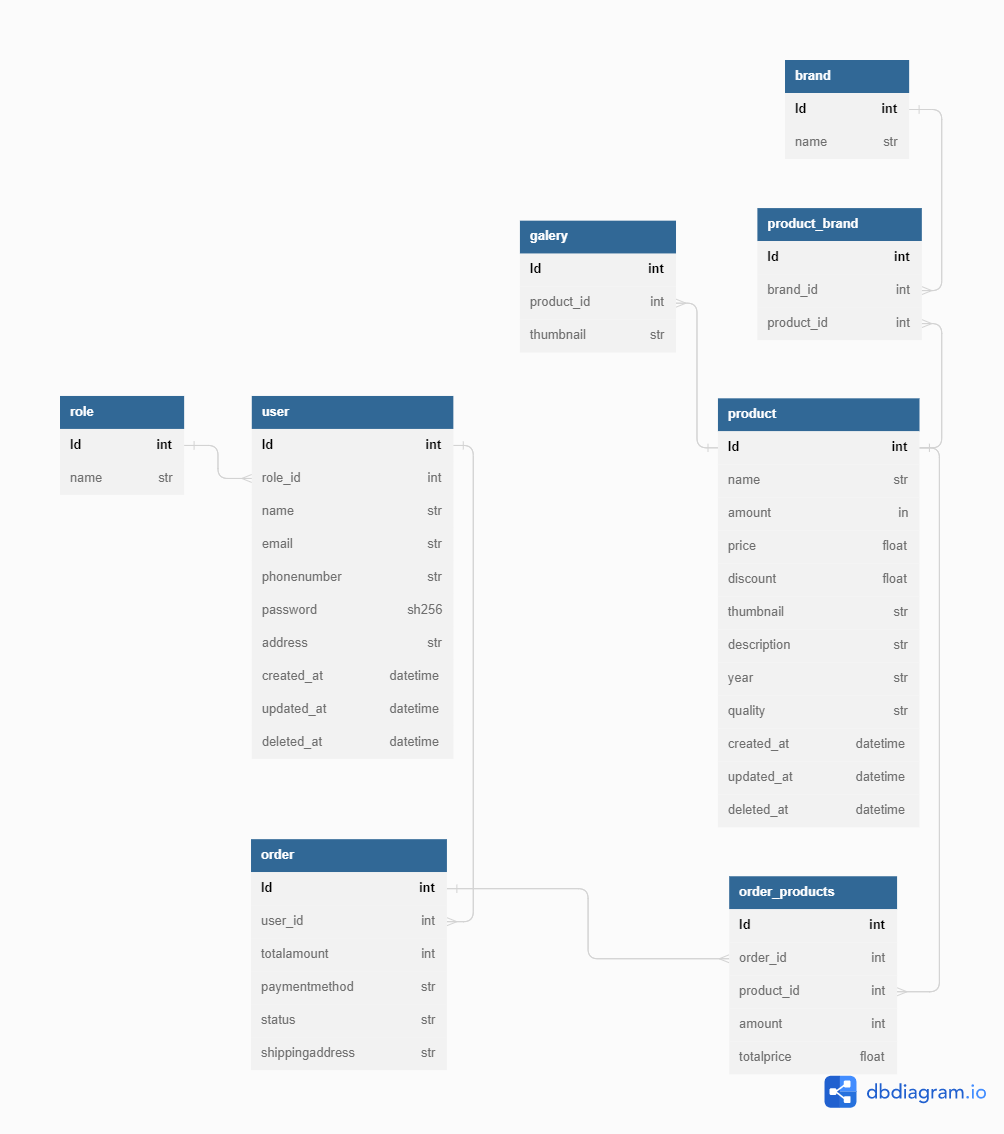
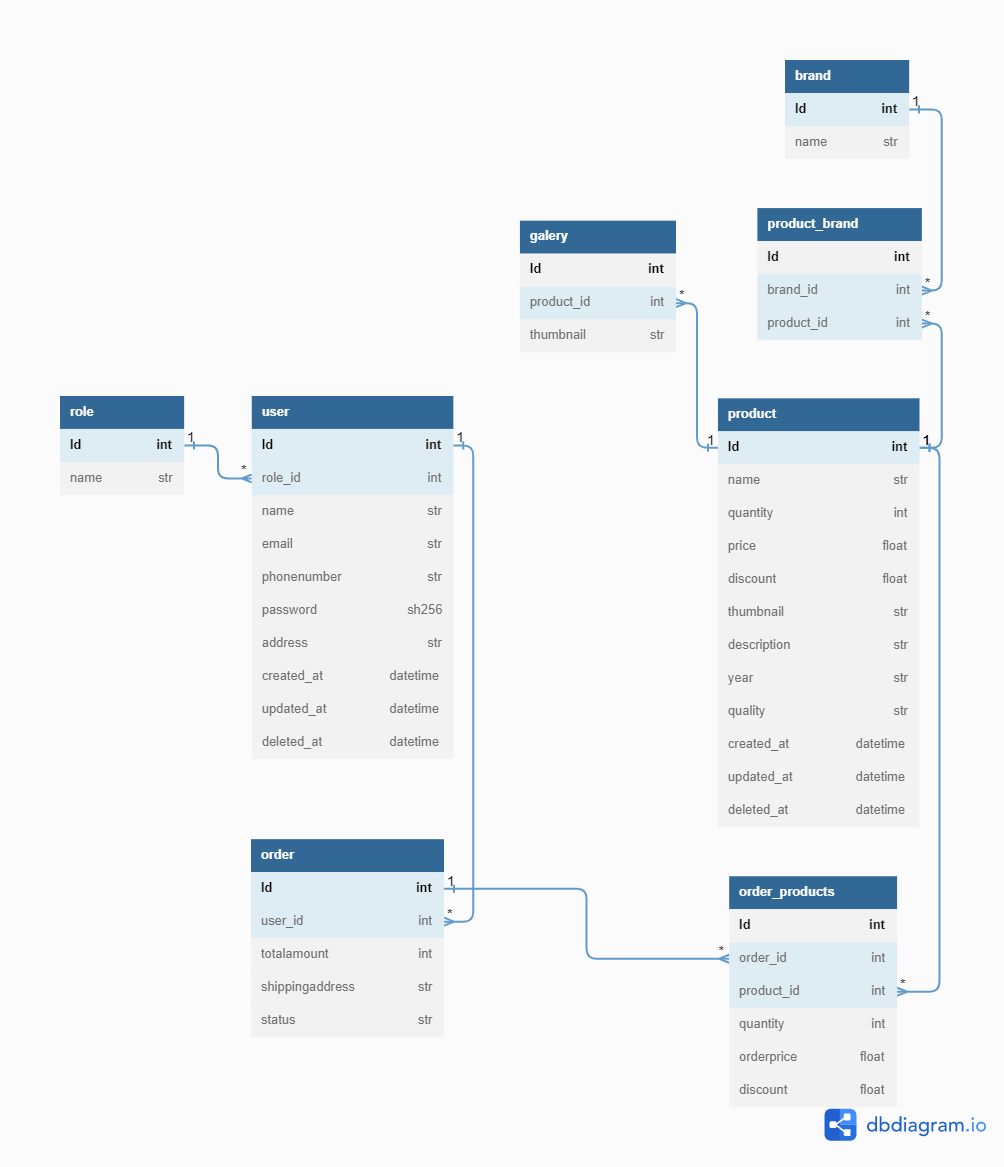
Update model : Update Table

diff --git a/app/models/user.go b/app/models/user.go
@@ -20,7 +20,7 @@ type User struct {
 	Id          uint   `json:"ID"           form:"ID"           gorm:"primary_key" `
 	Name        string `json:"name"         form:"name"         gorm:"unique;not null" validate:"required,min=4,max=32"`
 	Email       string `json:"email"        form:"email"        gorm:"unique"          validate:"required,email,min=4,max=32"`
-	PhoneNumber string `json:"phonenumber" form:"phonenumber" gorm:"unique"          validate:"required,len=10"`
+	PhoneNumber string `json:"phonenumber"  form:"phonenumber"  gorm:"unique"          validate:"required,len=10"`
 	Password    string `json:"password"     form:"password"     gorm:"not null"        validate:"required,min=4,max=32"`
 	Address     string `json:"address"      form:"address"      gorm:""                validate:""`
 	CreatedAt   time.Time
@@ -28,6 +28,20 @@ type User struct {
 	DeletedAt   gorm.DeletedAt `gorm:"index"`
 
 	RoleId uint
+
+	Orders []Order `gorm:"foreignKey:UserId;references:Id"` //user 1-n order
+
+}
+
+type ReadUser struct {
+	Name        string
+	Email       string
+	PhoneNumber string
+	Address     string
+}
+
+func (u *User) ReadUser() interface{} {
+	return ReadUser{Name: u.Name, Email: u.Email, PhoneNumber: u.PhoneNumber, Address: u.Address}
 }
 
 func (currUser *User) UpdateStruct(newUser *User) {

diff --git a/app/models/product.go b/app/models/product.go
@@ -11,7 +11,7 @@ import (
 type Product struct {
 	Id          uint    `json:"ID"          gorm:"primary_key"`
 	Name        string  `json:"name"        gorm:"unique;not null"          validate:"required,min=4,max=128"`
-	Amount      int     `json:"amount"      gorm:"not null;default:0"       validate:""`
+	Quantity    int     `json:"quantity"    gorm:"not null;default:0"       validate:""`
 	Price       float32 `json:"price"       gorm:"not null"                 validate:"required"`
 	Discount    float32 `json:"discount"    gorm:"not null;default:0.0"     validate:""`
 	Thumbnail   string  `json:"thumbnail"   gorm:""                         validate:""`
@@ -28,7 +28,7 @@ type Product struct {
 
 func (currProduct *Product) UpdateStruct(newProduct *Product) {
 	currProduct.Name = newProduct.Name
-	currProduct.Amount = newProduct.Amount
+	currProduct.Quantity = newProduct.Quantity
 	currProduct.Price = newProduct.Price
 	currProduct.Discount = newProduct.Discount
 	currProduct.Thumbnail = newProduct.Thumbnail

diff --git a/app/routes/product.go b/app/routes/product.go
@@ -17,14 +17,3 @@ func ProductRouter(router *gin.Engine) {
 	router.DELETE("/product/:id", middleware.AdminMiddleware(), controller.DeleteProduct)
 	router.POST("/product/file", middleware.AdminMiddleware(), controller.CreateProduct_FromFile)
 }
-
-func GalleryRouter(router *gin.Engine) {
-	router.Use(middleware.AdminMiddleware())
-
-	//router.POST("/gallery", middleware.Middleware_IsAdmin(), controller.CreateGallery)
-	//router.GET("/gallery", controller.ReadGalleries)
-	//router.GET("/gallery/:id", controller.ReadGallery)
-	//router.PUT("/gallery/:id", middleware.Middleware_IsAdmin(), controller.UpdateGallery)
-	//router.DELETE("/gallery/:id", middleware.Middleware_IsAdmin(), controller.DeleteGallery)
-	//router.POST("/gallery/file", middleware.Middleware_IsAdmin(), controller.CreateGallery_FromFile)
-}
